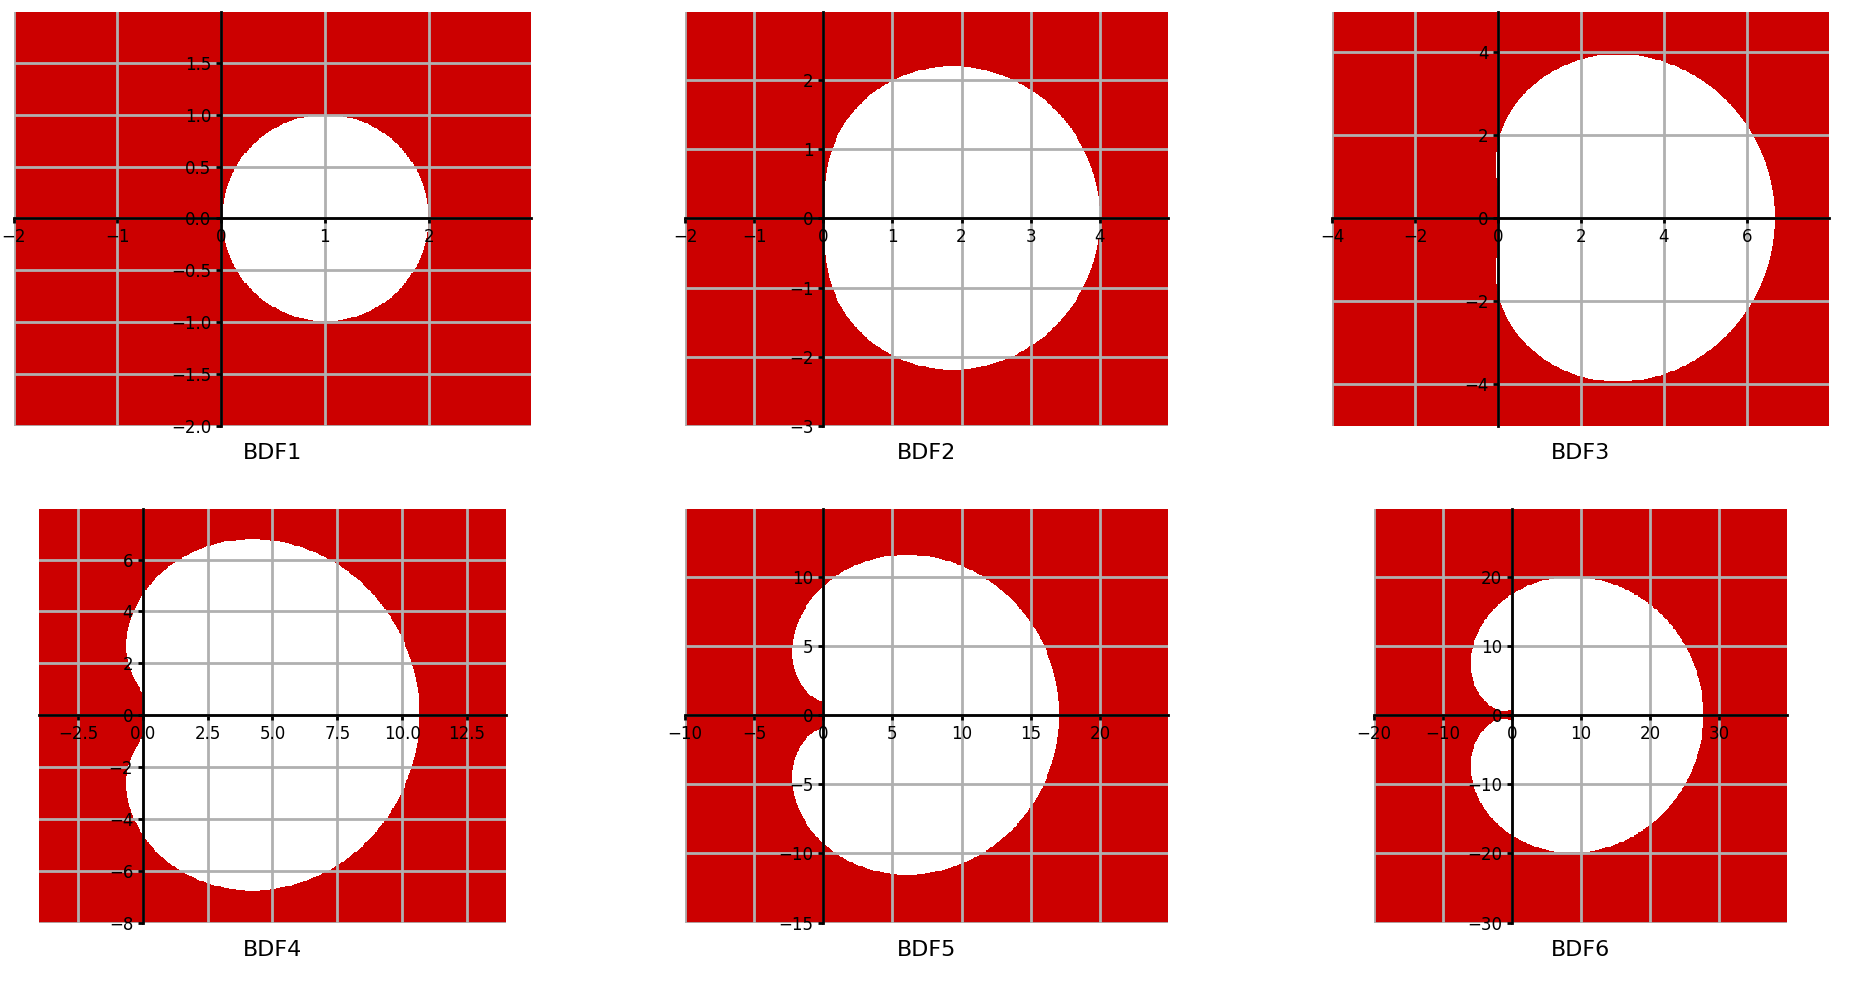
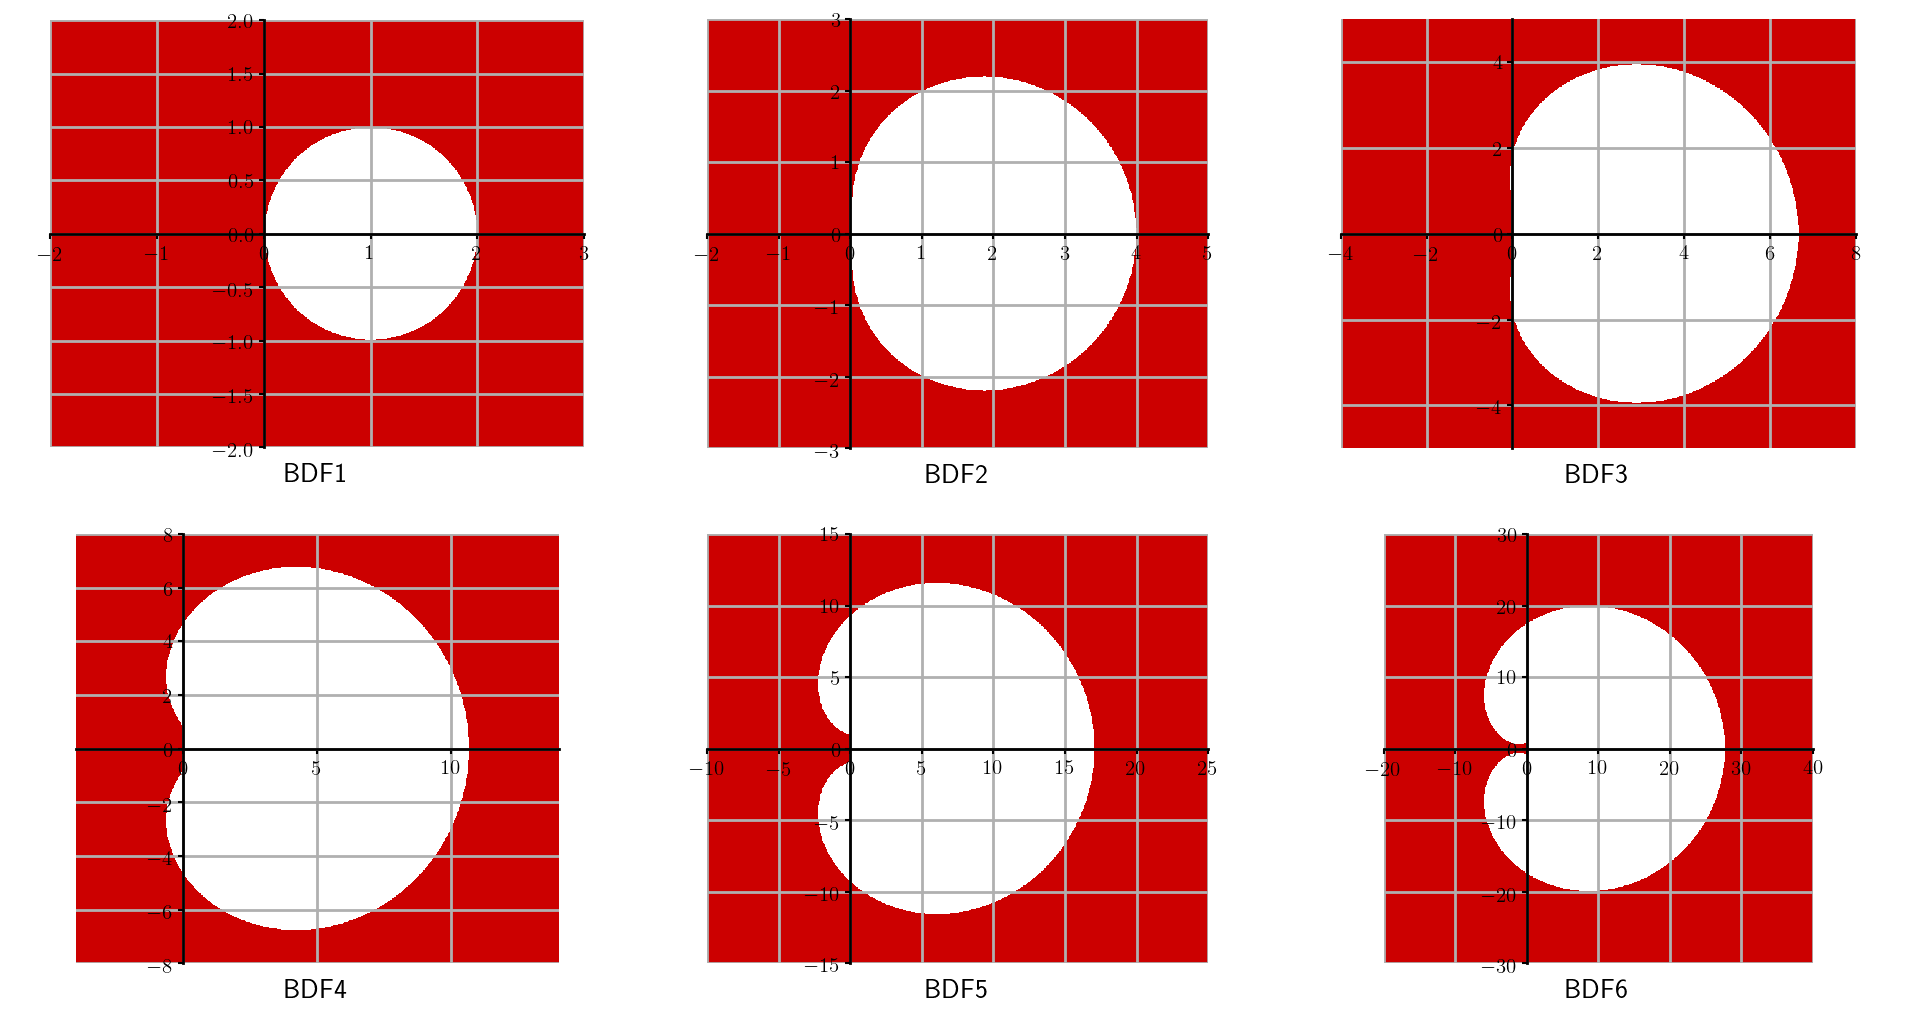
Changing pics

diff --git a/fig.py b/fig.py
@@ -1,18 +1,38 @@
+import matplotlib
 import matplotlib.colors as clr
 import matplotlib.pyplot as plt
 import numpy as np
+import scipy.linalg
 import scipy.special
+
+matplotlib.rcParams.update({
+    'xtick.labelsize': 15,
+    'ytick.labelsize': 15,
+    'xtick.major.width': 1.5,
+    'xtick.minor.width': 1,
+    'ytick.major.width': 1.5,
+    'ytick.minor.width': 1,
+    'axes.grid': True,
+    'axes.labelsize': 20,
+    'axes.titlesize': 20,
+    'grid.linewidth': 2,
+    'legend.fontsize': 20,
+    'legend.labelspacing': 1,
+    'lines.markeredgewidth': 15,
+    'lines.markersize': 3,
+    'lines.linewidth': 3,
+    'text.latex.preamble': [r"\usepackage{amsmath}"],
+    'text.usetex': True
+})
 
 
 def fig_rk():
     x_min, x_max = -4, 2
     y_min, y_max = -4, 4
-    res_x = 0.01
-    res_y = 0.01
+    res_x = 700
+    res_y = 700
 
-    x = np.arange(x_min, x_max, res_x)
-    y = np.arange(y_min, y_max, res_y)
-    x, y = np.meshgrid(x, y)
+    x, y = np.meshgrid(np.linspace(x_min, x_max, res_x), np.linspace(y_min, y_max, res_y))
 
     def r(k):
         return np.vectorize(lambda z: sum(np.power(z, range(k + 1)) / scipy.special.factorial(range(k + 1))))
@@ -25,16 +45,16 @@ def fig_rk():
         ax.spines[axis].set_linewidth(2)
     for axis in ('right', 'top'):
         ax.spines[axis].set_color('none')
-    ax.tick_params(width=2, labelsize=12)
     ax.yaxis.tick_left()
     ax.xaxis.tick_bottom()
     for (i, c) in zip((4, 3, 2, 1), ([.8, .0, .0, 1], [.0, .8, .0, 1], [.0, .0, .8, 1], [.5, .5, .5, 1])):
         rk_i = abs(r(i)(x + 1j * y)) < 1
         ax.pcolormesh(x, y, np.ma.masked_array(rk_i, mask=1 - rk_i), cmap=clr.ListedColormap([c]))
-        ax.plot([None], [None], '--', c=c, lw=20, label='RK{0}'.format(i))
-    ax.grid(True, lw=2)
-    ax.legend(fontsize=16, loc='upper left', handletextpad=1, labelspacing=1)
+        ax.plot([None], '--', c=c, lw=20, label='RK{0}'.format(i))
 
+    handles, labels = ax.get_legend_handles_labels()
+    ax.legend(handles[::-1], labels[::-1], loc='upper left')
+    ax.grid()
     plt.show()
 
 
@@ -58,12 +78,10 @@ def fig_bdf():
                                                (-2, -3, -5, -8, -15, -30),
                                                (2, 3, 5, 8, 15, 30),
                                                ):
-        res_x = (x_max - x_min) / 500
-        res_y = (y_max - y_min) / 500
+        res_x = 700
+        res_y = 700
 
-        x = np.arange(x_min, x_max, res_x)
-        y = np.arange(y_min, y_max, res_y)
-        x, y = np.meshgrid(x, y)
+        x, y = np.meshgrid(np.linspace(x_min, x_max, res_x), np.linspace(y_min, y_max, res_y))
 
         ax = fig.add_subplot(2, 3, i)
         ax.set_aspect('equal')
@@ -72,14 +90,13 @@ def fig_bdf():
             ax.spines[axis].set_linewidth(2)
         for axis in ('right', 'top'):
             ax.spines[axis].set_color('none')
-        ax.tick_params(width=2, labelsize=12)
         ax.yaxis.tick_left()
         ax.xaxis.tick_bottom()
         rk_i = r(i)(x + 1j * y)
         ax.pcolormesh(x, y, np.ma.masked_array(rk_i, mask=1 - rk_i), cmap=clr.ListedColormap([c]))
-        ax.plot([None], [None], '--', c=c, lw=20)
-        ax.grid(True, lw=2)
-        ax.set_title('BDF{0}'.format(i), fontsize=16, y=-.1)
+        ax.plot([None], '--', c=c, lw=20)
+        ax.set_title('BDF{0}'.format(i), y=-.1)
+        ax.grid()
 
     plt.show()
 
@@ -87,12 +104,10 @@ def fig_bdf():
 def fig_ab():
     x_min, x_max = -2.5, .5
     y_min, y_max = -1.5, 1.5
-    res_x = 500
-    res_y = 500
+    res_x = 700
+    res_y = 700
 
-    x = np.linspace(x_min, x_max, res_x)
-    y = np.linspace(y_min, y_max, res_y)
-    x, y = np.meshgrid(x, y)
+    x, y = np.meshgrid(np.linspace(x_min, x_max, res_x), np.linspace(y_min, y_max, res_y))
 
     def lbd(i, n):
         coeff = np.ones(1)
@@ -130,15 +145,73 @@ def fig_ab():
         ax.spines[axis].set_linewidth(2)
     for axis in ('right', 'top'):
         ax.spines[axis].set_color('none')
-    ax.tick_params(width=2, labelsize=12)
     ax.yaxis.tick_left()
     ax.xaxis.tick_bottom()
     for (i, c) in zip((1, 2, 3, 4), ([.5, .5, .5, 1], [.0, .0, .8, 1], [.0, .8, .0, 1], [.8, .0, .0, 1],)):
         rk_i = r(i)(x + 1j * y)
         ax.pcolormesh(x, y, np.ma.masked_array(rk_i, mask=1 - rk_i), cmap=clr.ListedColormap([c]))
-        ax.plot([None], [None], '--', c=c, lw=20, label='RK{0}'.format(i))
-    ax.grid(True, lw=2)
-    ax.legend(fontsize=16, loc='upper left', handletextpad=1, labelspacing=1)
+        ax.plot([None], '--', c=c, lw=20, label='AB{0}'.format(i))
+    ax.legend(loc='upper left')
+    ax.grid()
+
+    plt.show()
+
+
+def fig_precond():
+    from scipy.sparse.linalg import gmres as gmres_scipy
+
+    class GMRESCounter:
+        def __init__(self, res0=1):
+            self.niter = 0
+            self.res = [res0]
+
+        def __call__(self, rk):
+            self.res.append(rk)
+            self.niter += 1
+
+    fig = plt.figure()
+    ax1 = fig.add_subplot(121)
+    ax2 = fig.add_subplot(122)
+    ax1.set_aspect('equal')
+    ax2.set_xlabel(r'$n_{iter}$')
+    ax2.set_ylabel(r'$\frac{||r_n||}{||r_0||}$', rotation=0)
+
+    n = 200
+    angle = 2 * np.arange(n) * np.pi / (n - 1)
+    a = np.diagflat(2 * np.sin(angle) - 1 + 1j * np.cos(angle)) + np.random.normal(size=(n, n)) / (2 * np.sqrt(n))
+
+    val, vec = scipy.linalg.eig(a)
+    cond_a = np.linalg.cond(a)
+    cond_v = np.linalg.cond(vec)
+    ax1.plot(np.real(val), np.imag(val), 'x', mew=1, ms=6)
+
+    counter = GMRESCounter()
+    gmres_scipy(a, np.ones(n), callback=counter, maxiter=12)
+    l1, = ax2.semilogy(counter.res, '+')
+
+    jacobi = scipy.sparse.diags(1 / a.diagonal())
+
+    a_prec = a @ jacobi
+    val, vec = scipy.linalg.eig(a_prec)
+    cond_a_pre = np.linalg.cond(a_prec)
+    cond_v_pre = np.linalg.cond(vec)
+    ax1.plot(np.real(val), np.imag(val), '+', mew=1, ms=6)
+
+    counter = GMRESCounter()
+    gmres_scipy(a_prec, np.ones(n), callback=counter, maxiter=12)
+    l2, = ax2.semilogy(counter.res, 'x')
+
+    leg = ax2.legend([l1, l2], ['', ''], handletextpad=16, loc='lower center', bbox_to_anchor=(-0.75, 0.0))
+
+    ax2.text(-1, 0.035,
+             r'$\begin{{aligned}}'
+             r'\kappa\left(A\right) &= {0:0.2f} & \kappa\left(V\right) &= {1:0.2f} \\[10pt]'
+             r'\kappa\left(A_{{pre}}\right) &= {2:0.2f} \quad& \kappa\left(V_{{pre}}\right) &= {3:0.2f} \\'
+             r'\end{{aligned}}$'.format(cond_a, cond_v, cond_a_pre, cond_v_pre),
+             transform=ax2.transAxes,
+             zorder=leg.zorder + 1,
+             fontsize=matplotlib.rcParams['legend.fontsize']
+             )
 
     plt.show()
 

diff --git a/main.tex b/main.tex
@@ -15,18 +15,6 @@
 
 \chapter{TODO}
 
-	% \paragraph{}
-	% La convergence des méthode itératives, classiques comme de Krylov, est très fortement liée au conditionnement de l'opérateur $A$.
-	% La définition du conditionnement dépend de la norme choisie, et pour la norme $\norm[2]{\cdot}$ on a, pour une matrice $A$ inversible :
-	% \begin{equation}\label{eqn:conditionnement}
-	% 	\kappa\left(A\right) = \frac{\sigma_{\max}}{\sigma_{\min}} = \frac{\left|\lambda_{\max}\right|}{\left|\lambda_{\min}\right|}
-	% \end{equation}
-	% où $\sigma_{\min}$ et $\sigma_{\max}$ sont les valeurs singulières minimales et maximales de $A$,
-	% $\lambda_{\min}$ et $\lambda_{\max}$ sont les valeurs propres de $A$ de plus petit et de plus grand module,
-	% et où $\kappa\left(A\right)\geq1$ est le conditionnement de $A$.
-	% Une matrice bien conditionnée, du point de vue des algorithmes itératifs, a un conditionnement $\kappa\sim1$.
-	% Au contraire, une matrice mal conditionnée a des valeurs propres éloignées, et $\kappa\gg1$.
-
 %
 % FGMRES \cite{SimonciniSzyld2002, Pinel2010, Vasseur2016, CoulaudGiraudRametEtAl2013}.
 %

diff --git a/integration_temporelle.tex b/integration_temporelle.tex
@@ -194,7 +194,7 @@ Il existe différents algorithmes permettant de résoudre une telle équation, e
 
     \begin{figure}
       \centering
-      \includegraphics[width=.5\textwidth]{images/rk_stab.png}
+      \includegraphics[width=.45\textwidth]{images/rk_stab.png}
       \caption{Domaines de stabilité (en couleur) des méthodes de Runge-Kutta pour les quatre premiers ordres.}
       \label{fig:rk_stab}
     \end{figure}
